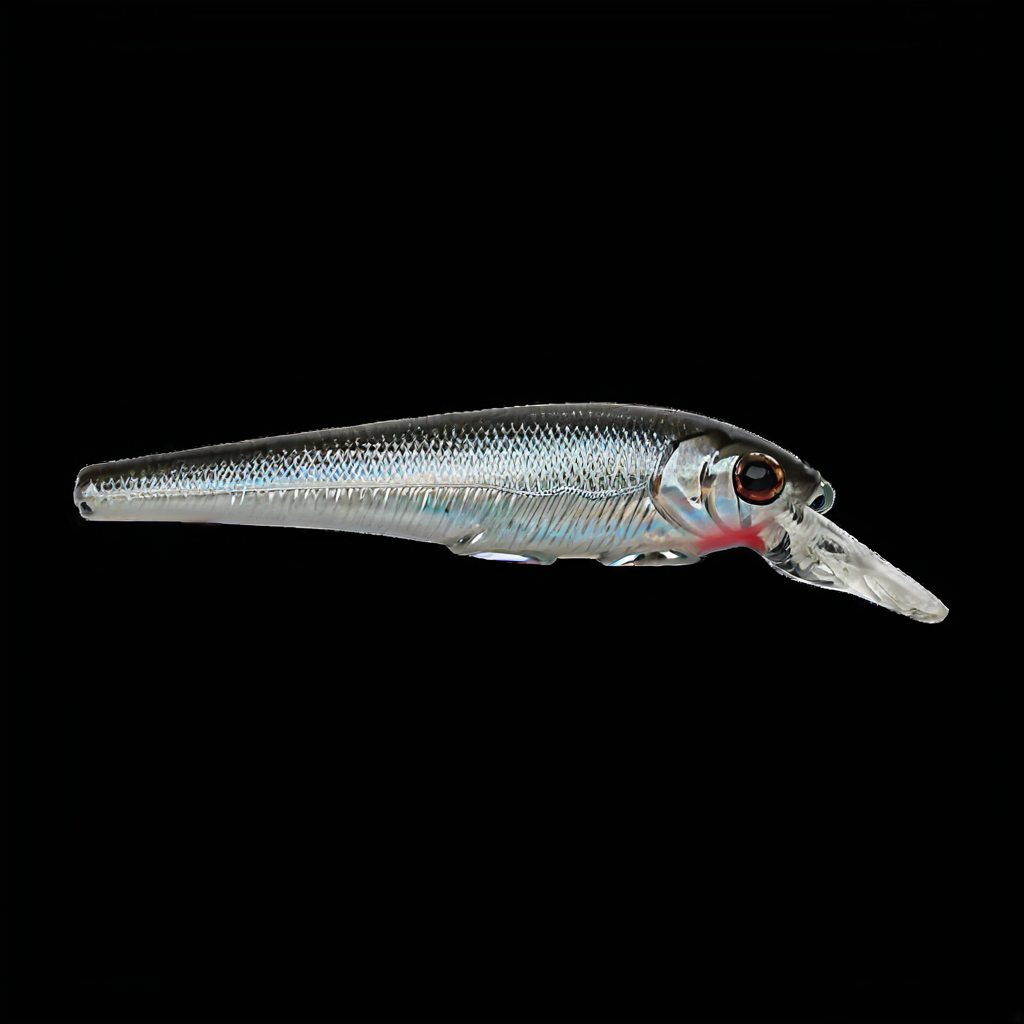
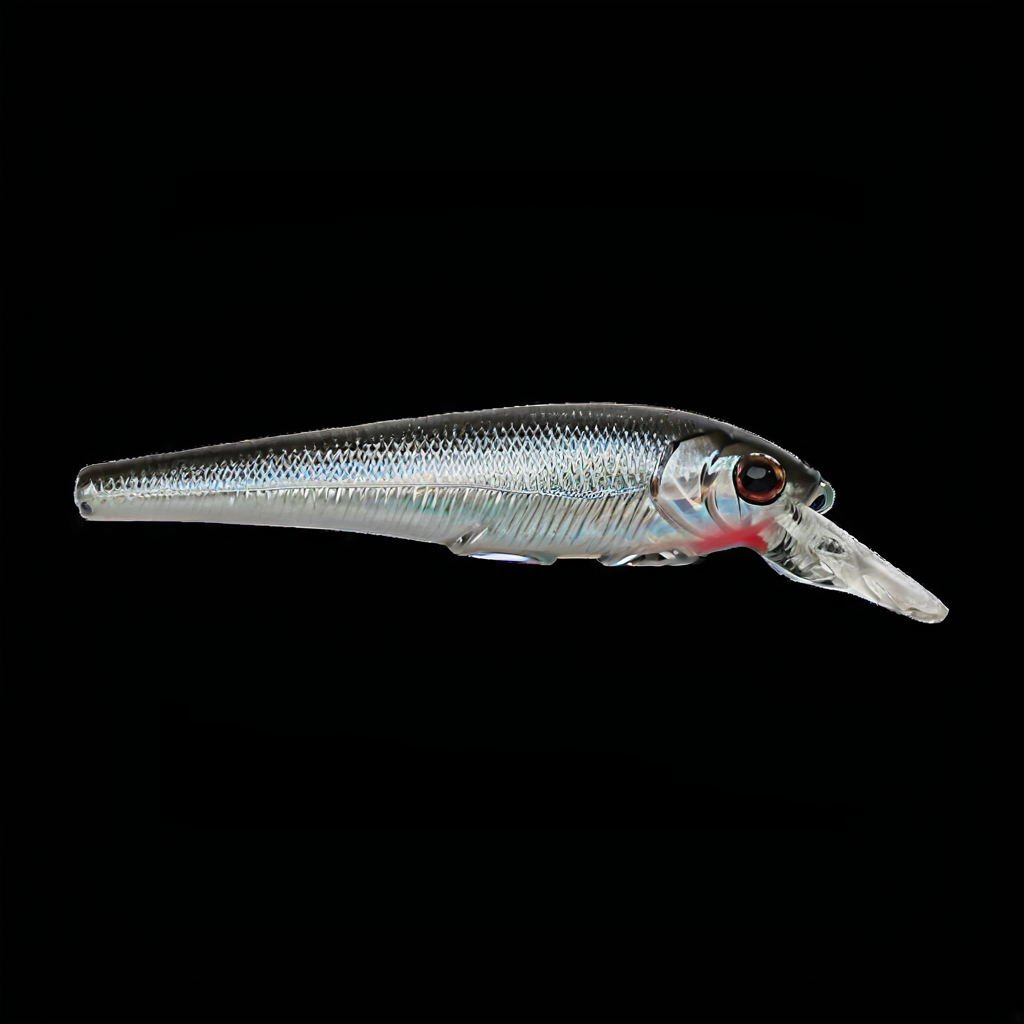
worked on server to include specific calls for each lora color scheme (firetiger & blacksilver)

Changed region(s): [[0.0625, 0.4062, 0.8438, 0.5938]]

diff --git a/server/server.js b/server/server.js
@@ -5,27 +5,17 @@ const corsOptions = {
     origin: ["http://localhost:5173"],
 };
 const PythonShell = require('python-shell').PythonShell;
-const fs = require('fs')
-
-//const multer = require('multure');
-//const upload = multer({ dest: 'uploads/' });
 
 app.use(cors(corsOptions));
 
-//app.use(express.json());
+app.get("/api", python_call)
 
-//python api build 
-//console.log('Data sent to python script:', undefined);
-//const python_process = spawner('python3', ['./python/api_call.py', undefined]);
-
-//app.get("/api", (req, res) =>{
-//    res.json({"fruits": ["apple", "strawberry", "banana"]});
-//});
-
-app.post("/api", python_call)
-
-function python_call(req, res) {
-    PythonShell.run('./api_call.py', null, function (err) {
+function python_call(req, res, next) {
+    let options = {
+        mode: 'text',
+        args: ['./python/blackSilver_workflow.json'],
+    };
+    PythonShell.run('./python/api_call.py', options, function (err) {
         if (err) throw err;
         res.send('finished');
     });

diff --git a/client/src/App.jsx b/client/src/App.jsx
@@ -9,10 +9,10 @@ function App() {
   const [imageData, setImageData] = useState(null);
 
   const fetchAPI = async () => {
-    await axios.post("http://localhost:3000/api");
+    await axios.get("http://localhost:3000/api");
   };
 
-  const fetchData = async()=>{
+  const fetchData = async() =>{
     try{
       const res = await fetch(encodedPath);
       const blob = await res.blob();

diff --git a/server/python/api_call.py b/server/python/api_call.py
@@ -7,12 +7,14 @@ import requests
 import os.path
 import sys
 
+new_workflow = sys.argv[1]
+
 generation_parameters = {
     "input_path": "/Users/benatkinson/Code/CAD2Crank/server/storage/image-input/model.png",
 }
 
 class ComfyUIService():
-    def __init__(self, server_address='localhost:8188', workflow_path='/Users/benatkinson/Code/CAD2Crank/server/firetiger_workflow.json'):
+    def __init__(self, server_address='localhost:8188', workflow_path='/Users/benatkinson/Code/CAD2Crank/server/python'):
         self.server_address = server_address
         self.workflow_path = workflow_path
        
@@ -103,7 +105,7 @@ class ComfyUIService():
        
         try:
             """Update the workflow with the generation parameters"""
-            workflow = self.load_workflow('firetiger_workflow.json')
+            workflow = self.load_workflow(new_workflow)
             workflow = self.update_workflow(workflow, 
                                             input_path=generation_parameters['input_path'],
                                             )
